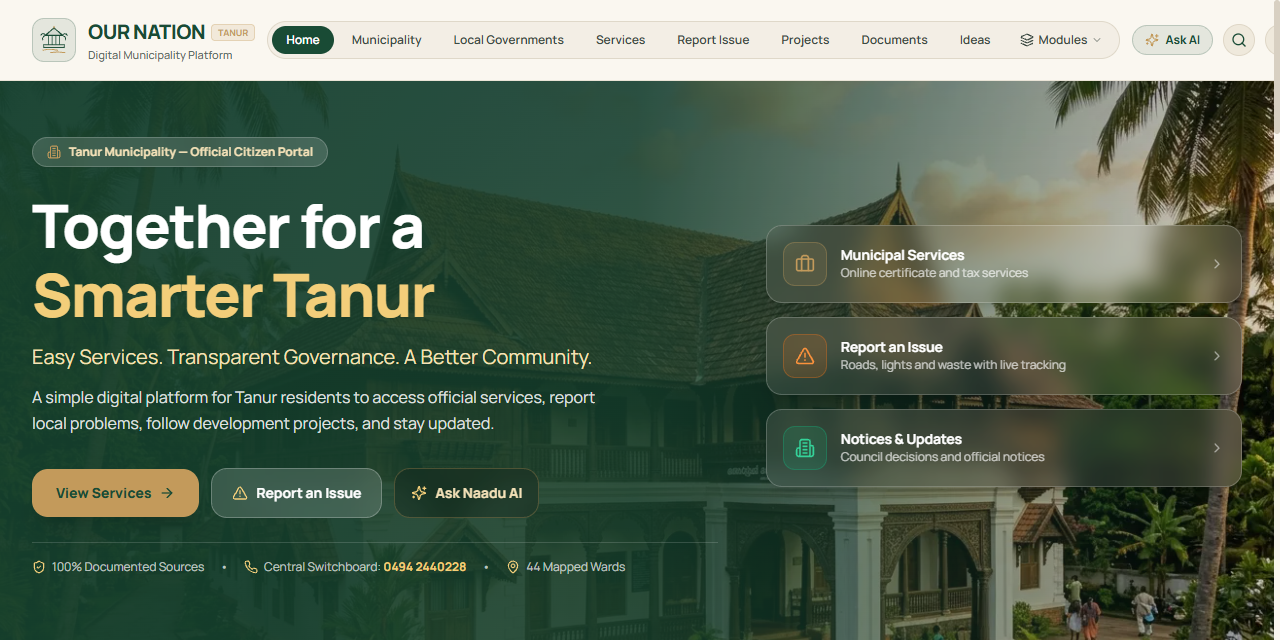
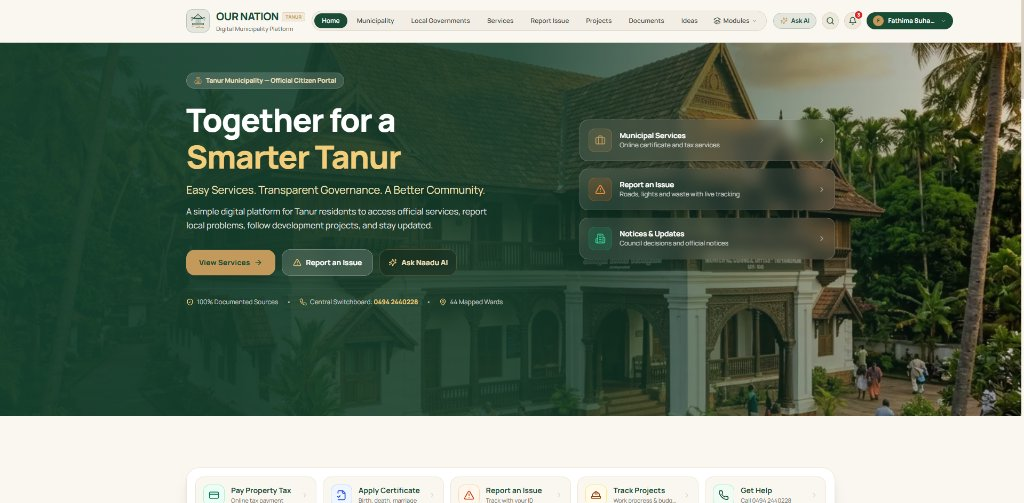
feat: embed authentic OUR NATION Tanur platform screenshot across homepage spotlight, projects showcase, and case study

diff --git a/index.html b/index.html
@@ -585,36 +585,70 @@
           </div>
         </div>
 
-        <!-- Flagship Spotlight Banner: OUR NATION -->
-        <div class="cyber-card p-6 sm:p-8 rounded-2xl border border-emerald-500/30 hover:border-emerald-400/60 transition-all relative overflow-hidden bg-gradient-to-r from-emerald-950/20 via-slate-900/40 to-slate-950">
-          <div class="flex flex-col lg:flex-row lg:items-center justify-between gap-6 relative z-10">
-            <div class="flex items-start gap-4">
-              <div class="w-12 h-12 rounded-2xl bg-emerald-500/10 border border-emerald-500/30 text-emerald-400 flex items-center justify-center shrink-0 shadow-lg">
-                <i data-lucide="landmark" class="w-6 h-6"></i>
+        <!-- Flagship Spotlight Banner: OUR NATION (With Authentic UI Preview) -->
+        <div class="cyber-card p-6 sm:p-8 rounded-3xl border border-emerald-500/40 hover:border-emerald-400/70 transition-all relative overflow-hidden bg-gradient-to-br from-emerald-950/40 via-slate-950 to-[#080D1B]">
+          <div class="absolute -right-16 -top-16 w-80 h-80 bg-emerald-500/10 rounded-full blur-3xl pointer-events-none"></div>
+          
+          <div class="grid grid-cols-1 lg:grid-cols-12 gap-6 lg:gap-8 items-center relative z-10">
+            <!-- Left Info -->
+            <div class="lg:col-span-7 space-y-4">
+              <div class="flex flex-wrap items-center gap-2">
+                <span class="px-3 py-1 rounded-full text-[10px] font-mono uppercase tracking-wider bg-emerald-950/90 border border-emerald-500/50 text-emerald-300 flex items-center gap-1.5 shadow-sm">
+                  <span class="w-1.5 h-1.5 rounded-full bg-emerald-400 animate-pulse"></span>
+                  Flagship Case Study
+                </span>
+                <span class="px-2.5 py-0.5 rounded-md text-[10px] font-mono text-amber-300 bg-amber-950/60 border border-amber-500/30 flex items-center gap-1">
+                  <i data-lucide="map-pin" class="w-3 h-3 text-amber-400"></i>
+                  Tanur, Kerala
+                </span>
+                <span class="px-2.5 py-0.5 rounded-md text-[10px] font-mono text-slate-300 bg-slate-900 border border-slate-800">
+                  Engineered by CRAFTIQ
+                </span>
               </div>
+
               <div>
-                <div class="flex items-center gap-2 mb-1">
-                  <span class="px-2.5 py-0.5 rounded-full text-[10px] font-mono uppercase tracking-wider bg-emerald-950/80 border border-emerald-500/40 text-emerald-300 flex items-center gap-1.5">
-                    <span class="w-1.5 h-1.5 rounded-full bg-emerald-400 animate-pulse"></span>
-                    New Flagship Case Study
-                  </span>
-                  <span class="text-[11px] font-mono text-amber-300/80">Tanur, Kerala</span>
-                </div>
-                <h3 class="text-lg sm:text-xl font-bold text-white">OUR NATION — Civic Technology & Digital Governance</h3>
-                <p class="text-xs sm:text-sm text-slate-300 mt-1 max-w-2xl leading-relaxed">
-                  A citizen-centric digital platform connecting people with local government services, 44-ward councillor directories, civic issue tracking, and grounded AI assistance.
+                <h3 class="text-xl sm:text-2xl lg:text-3xl font-bold text-white tracking-tight">
+                  OUR NATION — Civic Technology & Digital Governance
+                </h3>
+                <p class="text-xs sm:text-sm text-slate-300 mt-2 leading-relaxed">
+                  A citizen-centric digital platform connecting people with local government services, 44-ward councillor directories, civic issue tracking, and grounded AI assistance for Tanur Municipality.
                 </p>
               </div>
+
+              <div class="flex flex-wrap gap-2 pt-1">
+                <span class="px-2 py-0.5 rounded text-[10px] font-mono bg-emerald-500/15 border border-emerald-500/30 text-emerald-300">Next.js 14 App Router</span>
+                <span class="px-2 py-0.5 rounded text-[10px] font-mono bg-sky-500/15 border border-sky-500/30 text-sky-300">Gemini 1.5 Flash</span>
+                <span class="px-2 py-0.5 rounded text-[10px] font-mono bg-teal-500/15 border border-teal-500/30 text-teal-300">Supabase PostgreSQL</span>
+                <span class="px-2 py-0.5 rounded text-[10px] font-mono bg-amber-500/15 border border-amber-500/30 text-amber-300">Bilingual Malayalam/English</span>
+              </div>
+
+              <div class="flex flex-wrap items-center gap-3 pt-2">
+                <button onclick="showPage('work-our-nation')" class="px-6 py-2.5 rounded-xl text-xs font-bold text-white bg-emerald-600 hover:bg-emerald-500 transition-all flex items-center gap-2 shadow-lg shadow-emerald-600/30 hover:scale-105 active:scale-95">
+                  <i data-lucide="file-text" class="w-4 h-4"></i>
+                  <span>Read Full Case Study</span>
+                </button>
+                <a href="https://our-nation.vercel.app/" target="_blank" rel="noopener noreferrer" class="px-5 py-2.5 rounded-xl text-xs font-semibold text-slate-200 bg-slate-900/90 border border-slate-700/80 hover:bg-slate-800 transition-all flex items-center gap-2">
+                  <span>Visit Live Platform</span>
+                  <i data-lucide="external-link" class="w-3.5 h-3.5 text-emerald-400"></i>
+                </a>
+              </div>
             </div>
-            <div class="flex flex-wrap items-center gap-3 shrink-0">
-              <button onclick="showPage('work-our-nation')" class="px-5 py-2.5 rounded-xl text-xs font-bold text-white bg-emerald-600 hover:bg-emerald-500 transition-all flex items-center gap-2 shadow-lg shadow-emerald-600/25">
-                <i data-lucide="file-text" class="w-4 h-4"></i>
-                <span>Read Case Study</span>
-              </button>
-              <a href="https://our-nation.vercel.app/" target="_blank" rel="noopener noreferrer" class="px-5 py-2.5 rounded-xl text-xs font-semibold text-slate-200 bg-slate-900 border border-slate-700/80 hover:bg-slate-800 transition-all flex items-center gap-2">
-                <span>Visit Platform</span>
-                <i data-lucide="external-link" class="w-3.5 h-3.5 text-emerald-400"></i>
-              </a>
+
+            <!-- Right Preview Mockup -->
+            <div class="lg:col-span-5 relative group cursor-pointer" onclick="showPage('work-our-nation')">
+              <div class="absolute -inset-1.5 bg-gradient-to-r from-emerald-500/30 to-amber-500/30 rounded-2xl blur-lg opacity-60 group-hover:opacity-100 transition-opacity"></div>
+              <div class="relative rounded-2xl overflow-hidden border border-emerald-500/40 bg-slate-950 shadow-2xl">
+                <div class="px-3 py-2 bg-slate-900 border-b border-slate-800 flex items-center justify-between text-[10px] font-mono text-slate-400">
+                  <div class="flex items-center gap-1.5">
+                    <span class="w-2.5 h-2.5 rounded-full bg-rose-500/80 inline-block"></span>
+                    <span class="w-2.5 h-2.5 rounded-full bg-amber-500/80 inline-block"></span>
+                    <span class="w-2.5 h-2.5 rounded-full bg-emerald-500/80 inline-block"></span>
+                    <span class="ml-1 text-slate-300">our-nation.vercel.app</span>
+                  </div>
+                  <span class="text-emerald-400 font-semibold">LIVE</span>
+                </div>
+                <img src="./assets/our-nation-cover.png" alt="OUR NATION — Civic Platform Screenshot" class="w-full h-auto object-cover group-hover:scale-105 transition-transform duration-500" />
+              </div>
             </div>
           </div>
         </div>
